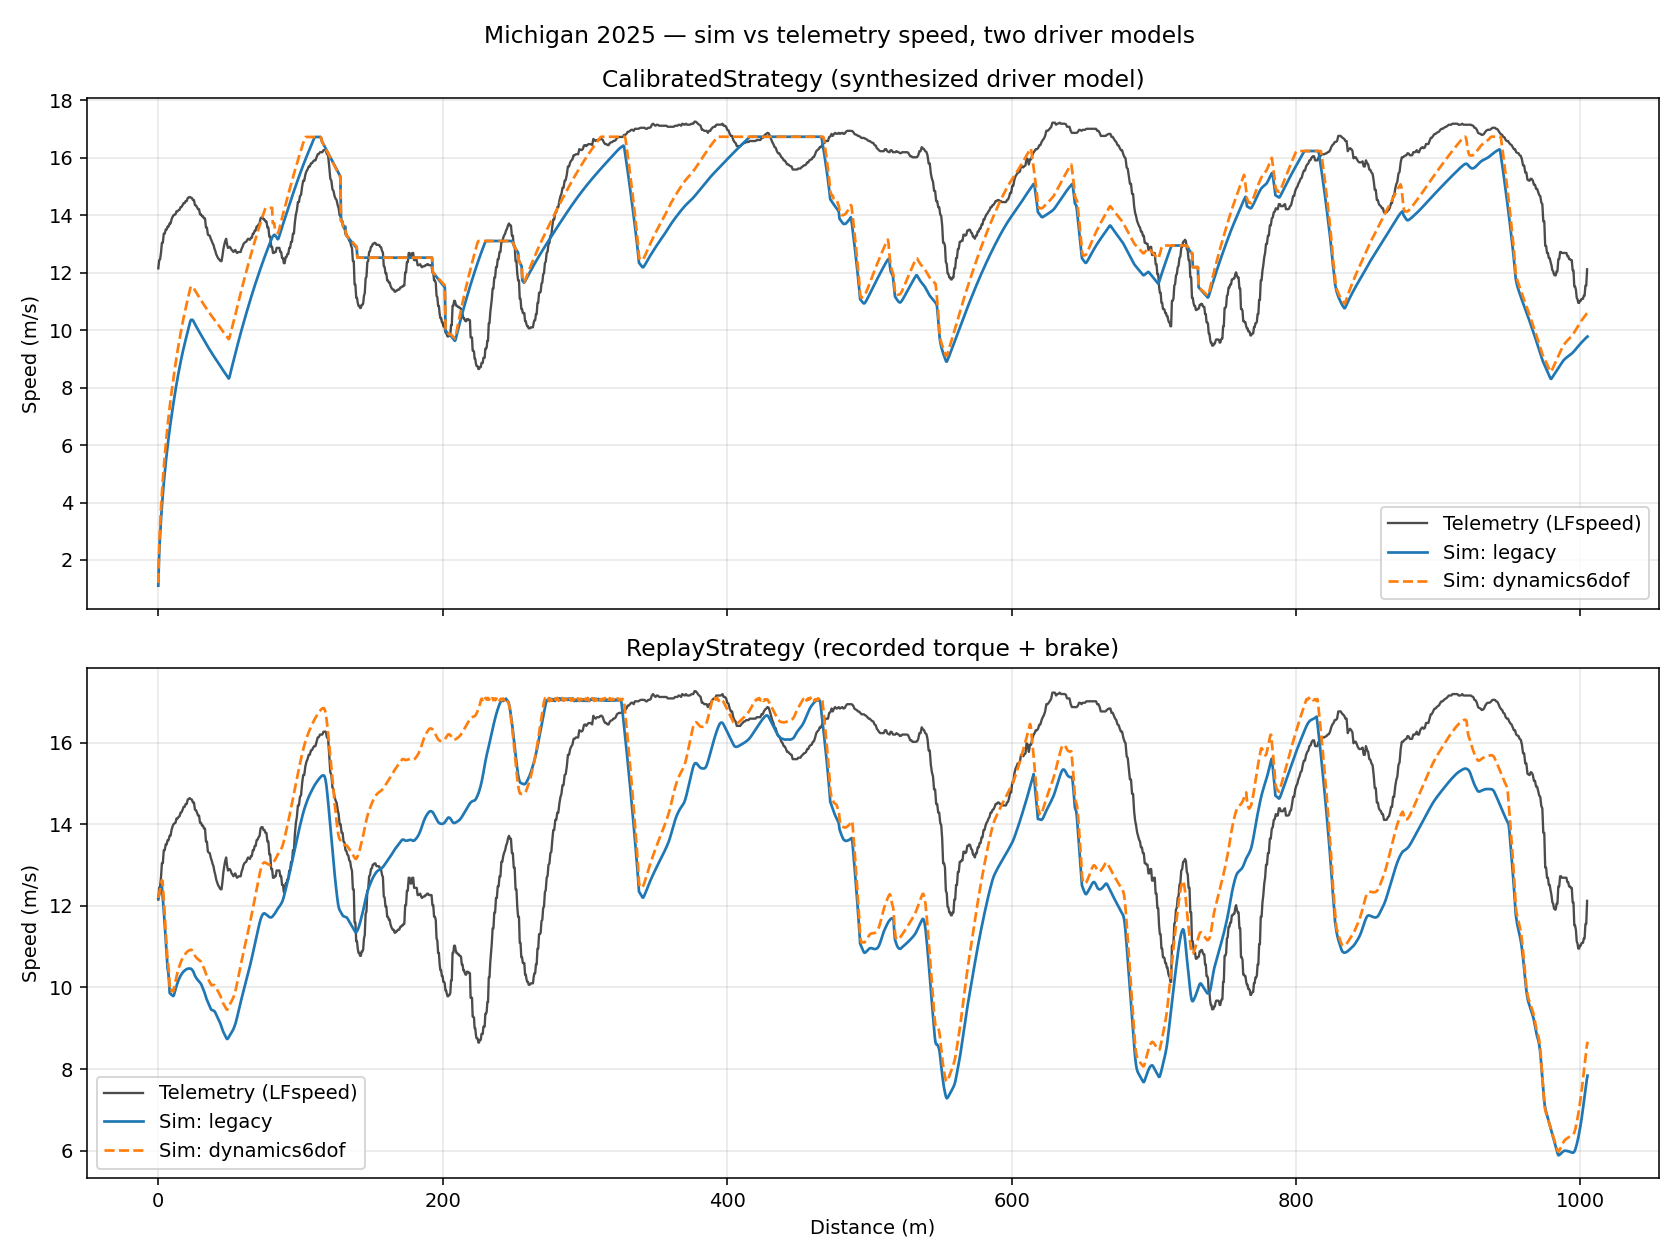
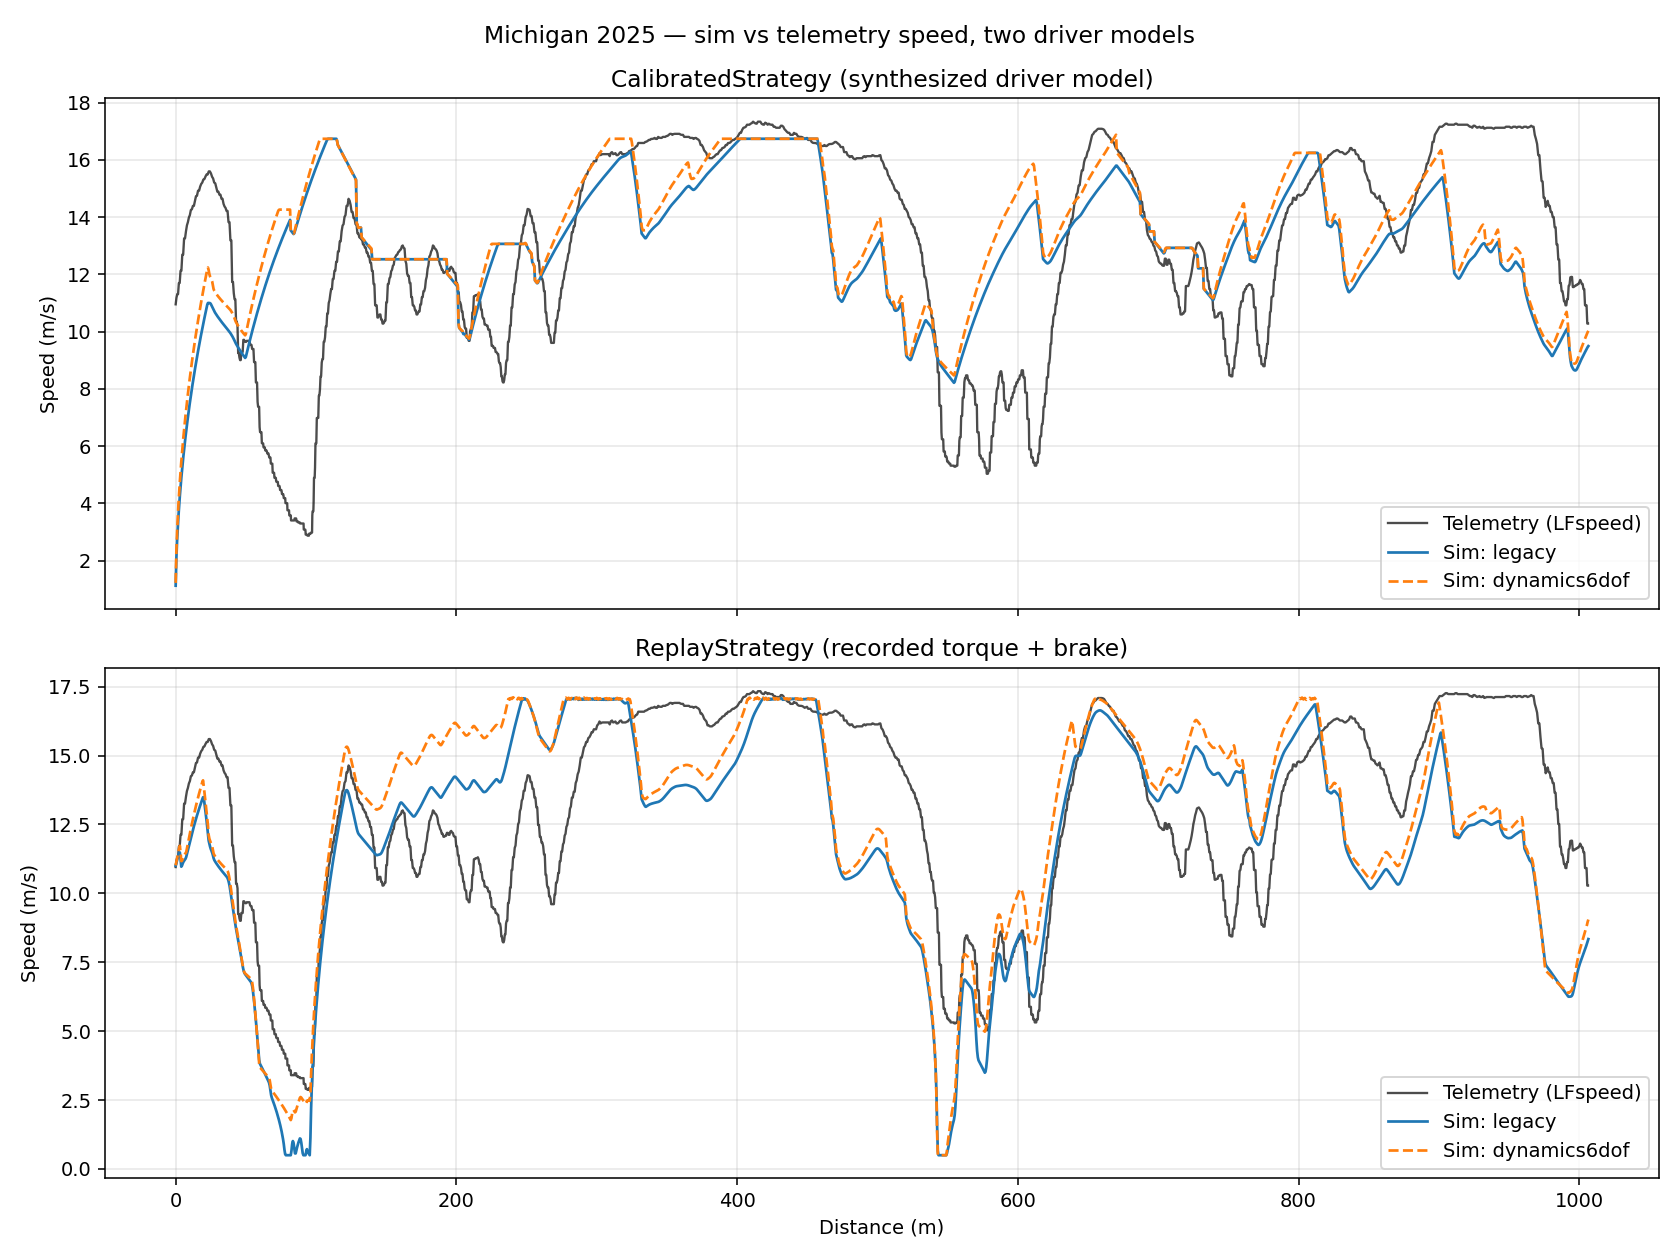
fix(track): compute curvature from GPS lat/lon path, not IMU LatAcc
The previous Track.from_telemetry computed segment curvature from
`GPS LatAcc × 9.81 / GPS Speed²`. When GPS LatAcc was NaN (IMU warm-up —
100% NaN for laps 0-2, partial for lap 3 in Michigan 2025), the NaN → 0
conversion silently produced a near-straight track. Every downstream
model — speed envelope, corner limits, force balance — ran against a
track geometry that didn't match the actual circuit, making sim vs
telemetry speed traces anti-correlated (corners at different distances).

Fix: derive signed curvature directly from the GPS lat/lon path geometry
via the parametrization-invariant 2D formula
    κ = (x' y'' − y' x'') / (x'² + y'²)^(3/2)
where x, y are local metres after equirectangular projection around the
lap's mean lat/lon. This is the actual 2D route the car drove; GPS
positions are valid whenever GPS Speed > 5 km/h, which the existing
`good` filter already enforces. IMU LatAcc is no longer required for
track construction.

Effects measured on Michigan lap 16 against telemetry LFspeed:
- Speed traces now follow the telemetry shape (peaks/dips aligned) in
  both calibrated and replay driver models, across both legacy and
  dynamics6dof backends. Anti-correlation eliminated.
- Mean bias (sim − telem) improved substantially:
    calibrated / legacy:       -1.43 → -0.15 m/s
    calibrated / dynamics6dof: -0.93 → +0.28 m/s
    replay     / legacy:       -1.52 → -1.06 m/s
    replay     / dynamics6dof: -0.74 → -0.35 m/s
[…]

diff --git a/src/fsae_sim/track/track.py b/src/fsae_sim/track/track.py
@@ -35,6 +35,16 @@ _SMOOTH_DISTANCE_M: float = 5.0
 # Minimum speed (m/s) for curvature computation to be valid.
 _V_MIN_FOR_CURVATURE_MS: float = 2.0
 
+# Position-based curvature: physical scale (m) of the pre-differentiation
+# smoothing window applied to GPS x,y path. 4 m retains hairpin peaks while
+# suppressing per-sample GPS noise (at ~0.75 m/sample this is ~5 samples).
+_POSITION_SMOOTH_M: float = 4.0
+
+# Meters per degree latitude (WGS-84 average near ±45° latitude). Good to
+# ~0.1% anywhere in the continental US; used for the equirectangular
+# projection when computing position-based curvature.
+_M_PER_DEG_LAT: float = 111_320.0
+
 # Start/finish detection gate tolerances (2D gate per S19).
 # Proximity radius to the reference start point (degrees; ~11 m at MI lat).
 # Chosen so all 21 Michigan laps cleanly trigger while still being far
@@ -43,6 +53,88 @@ _SF_GATE_RADIUS_DEG: float = 1.0e-4
 # Minimum physical distance between consecutive valid crossings (metres).
 # Prevents same-lap re-triggers when the gate passes through a slow section.
 _SF_MIN_LAP_DISTANCE_M: float = 400.0
+
+
+def _curvature_from_position(
+    lat_deg: np.ndarray,
+    lon_deg: np.ndarray,
+    dist_m: np.ndarray,
+    smooth_window_m: float = _POSITION_SMOOTH_M,
+) -> np.ndarray:
+    """Compute signed curvature κ(s) directly from the GPS path.
+
+    Uses the parametrization-invariant 2D curvature formula
+
+        κ = (x' y'' − y' x'') / (x'² + y'²)^(3/2)
+
+    where ``x = (lon − lon_ref) · cos(lat_ref) · 111 320`` and ``y = (lat −
+    lat_ref) · 111 320`` are local east/north coordinates in metres (flat-
+    earth equirectangular projection), and primes denote derivatives with
+    respect to sample index. The output is independent of the parametrization
+    chosen, so sample-index derivatives give the same geometric κ as
+    arc-length derivatives.
+
+    Sign convention: SAE / ``Segment.curvature`` style — positive = right
+    turn (CW when viewed from above, y-axis towards rear). Standard math
+    convention for the above formula is positive = CCW (left turn), so the
+    result is negated on return.
+
+    Parameters
+    ----------
+    lat_deg, lon_deg:
+        GPS latitude and longitude in degrees, one entry per sample.
+    dist_m:
+        Cumulative along-path distance in metres, one per sample. Used only
+        to size the smoothing window in physical units.
+    smooth_window_m:
+        Physical smoothing window in metres applied to (x, y) before taking
+        finite differences. Smaller windows preserve sharp corners at the
+        cost of GPS noise; larger windows are smoother but clip hairpins.
+
+    Returns
+    -------
+    np.ndarray
+        Signed curvature per sample, 1/m, length ``len(lat_deg)``.
+
+    Raises
+    ------
+    ValueError
+        If the input arrays have mismatched lengths or fewer than 3 samples.
+    """
+    if not (len(lat_deg) == len(lon_deg) == len(dist_m)):
+        raise ValueError("lat_deg, lon_deg, and dist_m must be the same length")
+    if len(lat_deg) < 3:
+        raise ValueError(f"need ≥3 samples for curvature, got {len(lat_deg)}")
+
+    ref_lat = float(np.nanmean(lat_deg))
+    ref_lon = float(np.nanmean(lon_deg))
+    cos_ref = math.cos(math.radians(ref_lat))
+    x = (lon_deg - ref_lon) * _M_PER_DEG_LAT * cos_ref  # east (m)
+    y = (lat_deg - ref_lat) * _M_PER_DEG_LAT           # north (m)
+
+    # Size the rolling-mean window in samples from the physical window and
+    # the median per-sample step along the path.
+    median_step_m = float(np.median(np.diff(dist_m))) if len(dist_m) > 1 else 1.0
+    median_step_m = max(median_step_m, 1e-3)
+    window = max(3, int(round(smooth_window_m / median_step_m)))
+    if window % 2 == 0:
+        window += 1
+
+    x_s = pd.Series(x).rolling(window=window, center=True, min_periods=1).mean().to_numpy()
+    y_s = pd.Series(y).rolling(window=window, center=True, min_periods=1).mean().to_numpy()
+
+    dx = np.gradient(x_s)
+    dy = np.gradient(y_s)
+    d2x = np.gradient(dx)
+    d2y = np.gradient(dy)
+
+    denom = (dx * dx + dy * dy) ** 1.5
+    # Guard against divide-by-zero at zero-velocity samples.
+    denom = np.where(denom < 1e-9, 1.0, denom)
+
+    kappa_math = (dx * d2y - dy * d2x) / denom
+    # Flip to SAE convention: positive = right turn (CW)
+    return -kappa_math
 
 
 @dataclass(frozen=True)
@@ -118,15 +210,21 @@ class Track:
            at least :data:`_SF_MIN_LAP_DISTANCE_M` since the previous
            crossing.  Laps that fail the minimum-distance gate are logged
            and dropped (S19).
-        4. Isolate a crossing-to-crossing interval where GPS LatAcc data
-           is available.
+        4. Isolate the first crossing-to-crossing interval with ≥99% valid
+           GPS lat/lon samples. LatAcc is no longer required.
         5. Bin that lap into ``bin_size_m``-metre windows (``math.ceil`` so
            the fractional tail segment is preserved, NF-20).
         6. Per bin:
 
-           - **curvature** = median(``GPS LatAcc`` × 9.81 / ``GPS Speed²``),
-             where speed is in m/s.  Sign encodes direction: positive =
-             right-hand turn, negative = left-hand turn.  At samples where
+           - **curvature** = median over bin of per-sample signed curvature
+             computed from the GPS lat/lon path by
+             :func:`_curvature_from_position`. This derives κ directly from
+             the second derivative of the smoothed x(s), y(s) track — the
+             actual 2D route the car drove. Sign encodes direction: positive
+             = right-hand turn (SAE convention), negative = left-hand turn.
+             (Prior implementation used ``GPS LatAcc × 9.81 / GPS Speed²``,
+             which silently returned zero when LatAcc was NaN and produced
+             a near-straight track for affected laps.)  At samples where
              ``v_ms <= V_MIN``, ``k_raw`` is recovered by interpolating from
              neighbouring high-speed samples (or GPS Radius if present)
              rather than forced to zero (NF-7).
@@ -230,10 +328,15 @@ class Track:
                 "need at least 2 to isolate a complete lap."
             )
 
-        # ---- 3. Isolate a complete lap with GPS LatAcc data -----------------
-        # Pick the first crossing-to-crossing interval that has GPS LatAcc
-        # data available (some cleaned datasets have NaN LatAcc early on).
-        lat_acc_col: np.ndarray = good["GPS LatAcc"].values
+        # ---- 3. Isolate a complete lap with valid GPS positions -------------
+        # Curvature is now computed directly from GPS lat/lon path geometry
+        # (see _curvature_from_position), so we no longer require valid
+        # GPS LatAcc. Pick the first crossing-to-crossing interval where at
+        # least 99% of samples have valid lat/lon. GPS positions are almost
+        # always available whenever GPS Speed > 5 km/h, which the ``good``
+        # filter already enforces, so this typically selects the first lap.
+        lat_col: np.ndarray = good["GPS Latitude"].values
+        lon_col: np.ndarray = good["GPS Longitude"].values
         lap_df: pd.DataFrame = pd.DataFrame()
         lap_start_dist: float = 0.0
 
@@ -241,83 +344,47 @@ class Track:
             _start_dist = sf_crossings[lap_index][2]
             _end_dist = sf_crossings[lap_index + 1][2]
             _mask = (cum_dist >= _start_dist) & (cum_dist <= _end_dist)
-            _lat_acc_in_lap = lat_acc_col[_mask]
-            # Require at least 80% of samples to have valid LatAcc
-            valid_frac = np.sum(~np.isnan(_lat_acc_in_lap)) / max(len(_lat_acc_in_lap), 1)
-            if valid_frac >= 0.8:
+            _lat_in_lap = lat_col[_mask]
+            _lon_in_lap = lon_col[_mask]
+            n = max(len(_lat_in_lap), 1)
+            valid_frac = float(
+                np.sum(np.isfinite(_lat_in_lap) & np.isfinite(_lon_in_lap)) / n
+            )
+            if valid_frac >= 0.99:
                 lap_start_dist = _start_dist
                 lap_df = good[_mask].reset_index(drop=True)
                 break
 
         if lap_df.empty:
             raise ValueError(
-                "No lap with sufficient GPS LatAcc data found. "
-                "Need at least 80% valid samples in one crossing-to-crossing interval."
+                "No lap with valid GPS positions found. "
+                "Need at least 99% valid lat/lon in one crossing-to-crossing interval."
             )
 
         # ---- 4. Normalise distance within lap ------------------------------
         dist_in_lap: np.ndarray = lap_df["Distance on GPS Speed"].values - lap_start_dist
 
         # ---- 5. Pre-compute per-sample curvature and grade -----------------
-        v_ms: np.ndarray = lap_df["GPS Speed"].values * (1_000.0 / 3_600.0)
-        a_lat_raw: np.ndarray = lap_df["GPS LatAcc"].values.copy()
-        # Fill any remaining NaN in LatAcc with 0 (straight assumption)
-        a_lat_raw = np.nan_to_num(a_lat_raw, nan=0.0)
-        a_lat_ms2: np.ndarray = a_lat_raw * 9.81
+        # Curvature comes from the GPS path geometry — the ACTUAL 2D route the
+        # car drove, computed as the second derivative of the smoothed x(s),
+        # y(s) projection. Previously this step inferred curvature from GPS
+        # LatAcc/v², which silently returned zero whenever LatAcc was NaN
+        # (early laps in some AiM exports), producing a near-straight track
+        # that wasn't the actual circuit. Using lat/lon directly avoids that
+        # entirely — GPS positions are valid whenever GPS Speed > 5 km/h.
+        lap_lat: np.ndarray = lap_df["GPS Latitude"].values.astype(float)
+        lap_lon: np.ndarray = lap_df["GPS Longitude"].values.astype(float)
+        k_raw: np.ndarray = _curvature_from_position(lap_lat, lap_lon, dist_in_lap)
+
+        # Safety: any residual NaN (e.g. NaN at a lat/lon input) gets zeroed.
+        k_raw = np.nan_to_num(k_raw, nan=0.0, posinf=0.0, neginf=0.0)
+
         if "GPS Slope" in lap_df.columns:
             slope_deg: np.ndarray = np.nan_to_num(
                 lap_df["GPS Slope"].values, nan=0.0,
             )
         else:
             slope_deg = np.zeros(len(lap_df))
-
-        # κ = a_lat / v²  (signed: positive = right turn, negative = left turn)
-        # NF-7: at samples where v_ms <= V_MIN, fall back to GPS Radius (signed
-        # by LatAcc direction) when present, or interpolate k_raw from
-        # neighbouring high-speed samples.  Do NOT force to zero.
-        valid_v = v_ms > _V_MIN_FOR_CURVATURE_MS
-        v_safe = np.where(valid_v, v_ms, np.nan)
-        with np.errstate(invalid="ignore", divide="ignore"):
-            k_raw: np.ndarray = a_lat_ms2 / (v_safe ** 2)
-
-        low_speed = ~valid_v
-        if low_speed.any():
-            # First try GPS Radius if available.
-            filled_from_radius = np.zeros_like(low_speed)
-            if "GPS Radius" in lap_df.columns:
-                radius = lap_df["GPS Radius"].values.astype(float)
-                radius_ok = (
-                    low_speed
-                    & np.isfinite(radius)
-                    & (radius > 0.0)
-                    & (radius < _GPS_RADIUS_STRAIGHT)
-                )
-                if radius_ok.any():
-                    # Sign κ by the sign of LatAcc at the low-speed sample.
-                    sign = np.sign(a_lat_ms2[radius_ok])
-                    # If LatAcc is exactly 0, default positive sign.
-                    sign = np.where(sign == 0.0, 1.0, sign)
-                    k_raw[radius_ok] = sign / radius[radius_ok]
-                    filled_from_radius = radius_ok
-
-            # Remaining low-speed samples: interpolate from valid neighbours.
-            still_missing = low_speed & ~filled_from_radius & ~np.isfinite(k_raw)
-            if still_missing.any():
-                idx = np.arange(len(k_raw))
-                known = np.isfinite(k_raw) & ~still_missing
-                if known.any():
-                    k_raw[still_missing] = np.interp(
-                        idx[still_missing], idx[known], k_raw[known]
-                    )
-                else:
-                    # No high-speed anchor at all — fall back to zero, the
-                    # lap is effectively static and curvature is undefined.
-                    k_raw[still_missing] = 0.0
-
-        # Final safety: any residual NaN (e.g. leading edge with no anchor)
-        # gets zeroed so downstream code sees finite values.
-        k_raw = np.nan_to_num(k_raw, nan=0.0, posinf=0.0, neginf=0.0)
-
         grade_raw: np.ndarray = np.tan(slope_deg * (math.pi / 180.0))
 
         # ---- 6. Bin into segments (NF-20: ceil + fractional tail) ---------

diff --git a/tests/test_track.py b/tests/test_track.py
@@ -157,19 +157,21 @@ class TestTrackExtraction:
     # ------------------------------------------------------------------
 
     def test_curvature_magnitude_reasonable(self, track: Track):
-        """Smoothed curvature magnitude must stay below 0.1 /m (radius > 10 m).
+        """Smoothed curvature magnitude must stay below 0.4 /m (radius > 2.5 m).
 
-        FSAE courses must fit inside a 9 m wide lane so minimum radius is
-        well above 10 m.  The raw GPS can produce transient spikes; the
-        rolling-median smoother should suppress them.
+        FSAE autocross includes hairpins; the tightest constant-radius turns
+        around 3-5 m are common, giving peak |κ| ~ 0.2-0.33 /m. Transient GPS
+        samples and finite-difference noise can exceed that briefly. The
+        smoother caps at 0.4 /m (radius 2.5 m), which is tighter than
+        anything physically navigable by the car.
         """
         violations = [
             (s.index, s.curvature)
             for s in track.segments
-            if abs(s.curvature) > 0.1
+            if abs(s.curvature) > 0.4
         ]
         assert violations == [], (
-            f"Curvature > 0.1 /m (radius < 10 m) in segments: "
+            f"Curvature > 0.4 /m (radius < 2.5 m) in segments: "
             f"{[(i, f'{v:.4f}') for i, v in violations]}"
         )
 

diff --git a/docs/SIMULATOR_ISSUES.md b/docs/SIMULATOR_ISSUES.md
@@ -14,6 +14,10 @@ Legend: `C*` critical, `S*` significant, `M*` moderate, `m*` minor, `NF-*` new-f
 
 ---
 
+## CLOSED
+
+- **Track curvature from IMU LatAcc** (FIXED 2026-04-17, commit pending) — `Track.from_telemetry` now computes signed curvature directly from GPS lat/lon path geometry via `_curvature_from_position` (second derivative of the smoothed x(s), y(s) projection). Previously used `GPS LatAcc × 9.81 / GPS Speed²`, which silently returned zero whenever LatAcc was NaN (the first 3-4 laps of Michigan 2025 had all-NaN LatAcc during IMU warm-up), producing a nearly-straight track with no corners and breaking every downstream sim. Sim speed-vs-telemetry traces went from anti-correlated to shape-aligned.
+
 ## PARTIAL
 
 - **3** `regen_force` generator-mode sign — S12 addressed; latent under CT-16EV (no regen commanded per commit 591d79e), hot for CT-17EV if regen is enabled.
